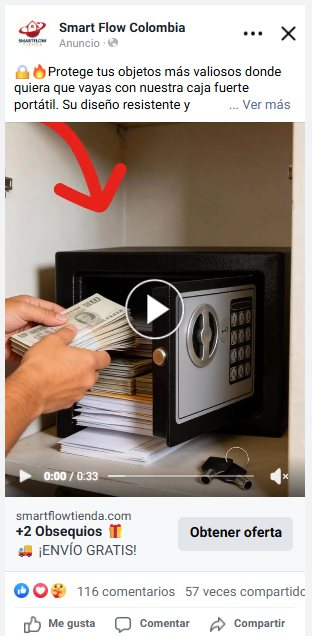
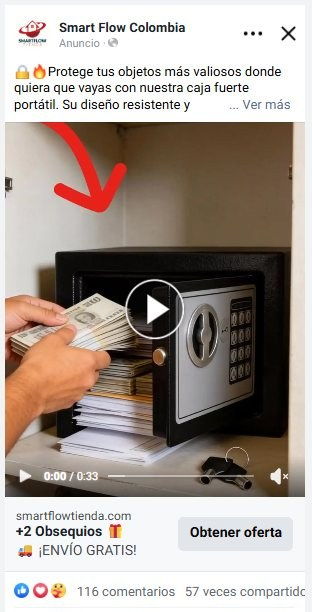
meta ads: la tira aterriza en el ROAS, los 3 anuncios cortan igual, fuera la marca de agua
Tres cosas que vio Diego en la pagina ya construida.

1 - La tira de totales se anclaba a `scrollLeft=1000` y solo en movil. Ahora
    aterriza a la derecha del todo y en todas las anchuras: se ven `Importe
    gastado`, `Valor de conversion` y `ROAS` sin deslizar.

2 - Los 3 anuncios acaban ahora en el mismo punto, justo bajo la linea de
    engagement, sin la barra de «Me gusta / Comentar / Compartir». La linea de
    corte se derivo de la de Candida, que era la referencia: 15 px de aire tras
    el texto, escalados por el ancho de cada captura.
      nitric      411x710 -> 411x677
      cajafuerte  312x636 -> 312x612
    Los atributos width/height del marcado se actualizaron: con la proporcion
    vieja el navegador reserva mal y la imagen salta al cargar.

3 - Fuera la marca de agua «Activar Windows», que al anclar a la derecha queda a
    la vista. NINGUNA cifra se toco: la marca vive de y>=72 y los numeros acaban
    en y=71. La etiqueta «Total» que la marca cruzaba NO se redibujo: se copio el
    «Total» limpio que la propia captura tiene en otra columna, y su posicion se
    derivo del patron de alineacion de las 6 columnas limpias.
    Comprobado: la tinta de las cifras solapa al 99,45 % con el original, que se
    conserva sin editar. Registrado en data/claims.md. [INC-EV-01]

Verificado: /eval bloqueantes=0 - paridad 316/316 - shot_port limpio, 0 errores
JS - las 5 imagenes con su tamano real casando con el marcado - og 6/6.

diff --git a/index.html b/index.html
@@ -2083,7 +2083,7 @@ body{overflow:hidden}
       (function(){
         var s=document.querySelector('.ev-scroll'); if(!s) return;
         var root=document.querySelector('#twBody')||null, hecho=false;
-        function anclar(){ if(hecho||!s.clientWidth) return; if(s.clientWidth<520){ s.scrollLeft=1000; } hecho=true; }
+        function anclar(){ if(hecho||!s.clientWidth) return; s.scrollLeft=s.scrollWidth; hecho=true; }
         if('IntersectionObserver' in window){
           var io=new IntersectionObserver(function(es){ es.forEach(function(e){ if(e.isIntersecting) anclar(); }); },{root:root,threshold:.1});
           io.observe(s);
@@ -2096,7 +2096,7 @@ body{overflow:hidden}
       </p>
       <div class="ev-ads">
         <figure>
-          <img src="assets/ev-ad-nitric.jpg" loading="lazy" width="411" height="710"
+          <img src="assets/ev-ad-nitric.jpg" loading="lazy" width="411" height="677"
                alt="Anuncio de Óxido Nítrico / Nitric Oxide ad">
           <figcaption><span class="t-es"><b>752</b> comentarios · <b>181</b> compartidos</span><span class="t-en"><b>752</b> comments · <b>181</b> shares</span></figcaption>
         </figure>
@@ -2106,7 +2106,7 @@ body{overflow:hidden}
           <figcaption><span class="t-es"><b>145</b> comentarios · <b>152</b> compartidos · <i>vídeo</i></span><span class="t-en"><b>145</b> comments · <b>152</b> shares · <i>video</i></span></figcaption>
         </figure>
         <figure>
-          <img src="assets/ev-ad-cajafuerte.jpg" loading="lazy" width="312" height="636"
+          <img src="assets/ev-ad-cajafuerte.jpg" loading="lazy" width="312" height="612"
                alt="Anuncio en vídeo de caja fuerte portátil / Portable safe video ad">
           <figcaption><span class="t-es"><b>116</b> comentarios · <b>57</b> compartidos · <i>vídeo · hook con IA</i></span><span class="t-en"><b>116</b> comments · <b>57</b> shares · <i>video · AI hook</i></span></figcaption>
         </figure>
